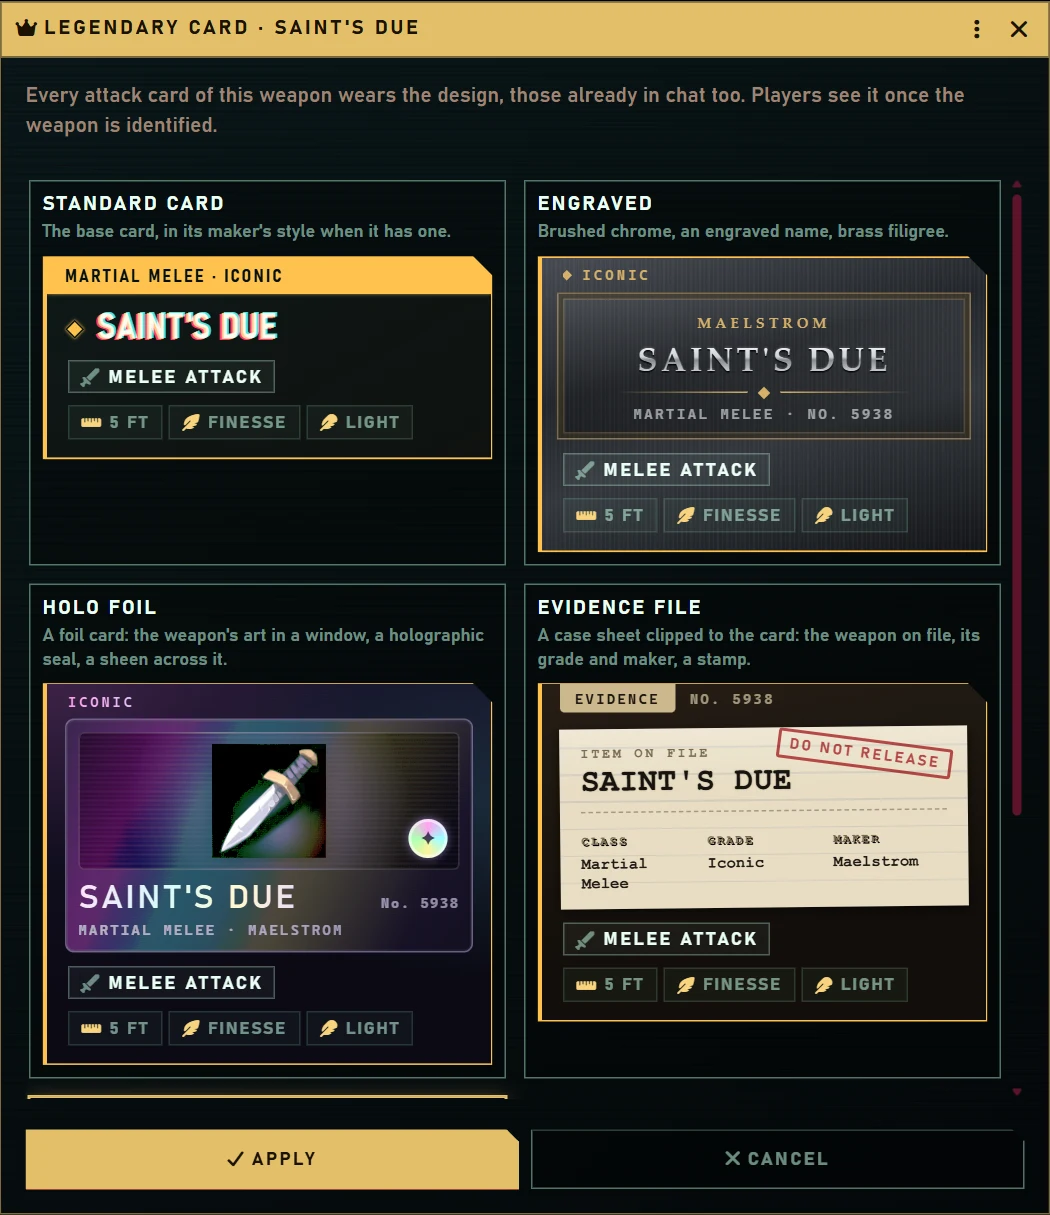
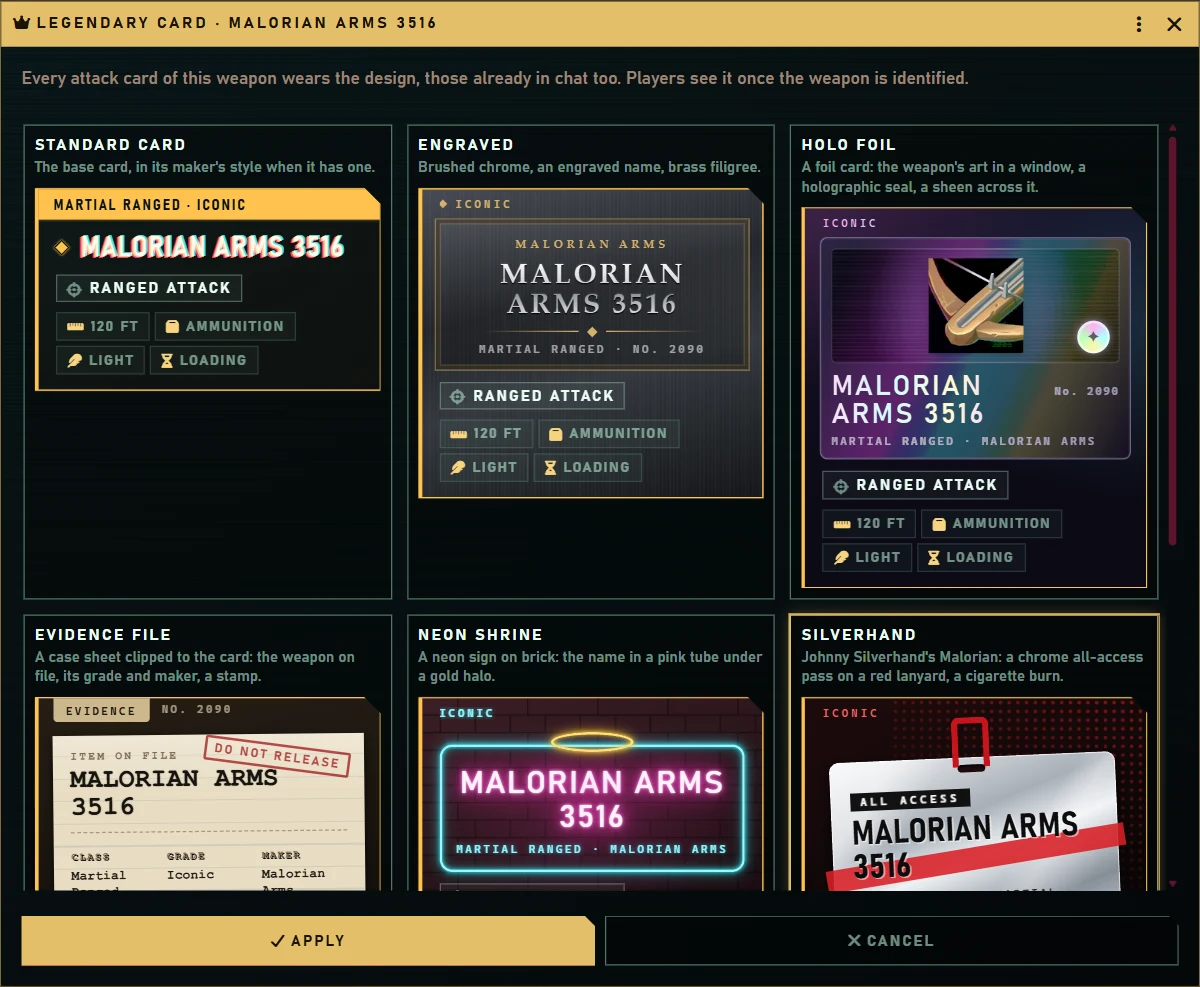
Legendary cards: designs for known weapons
Four more designs, each made for a known weapon and usable on any weapon the GM
gives it to:

- Silverhand (Johnny Silverhand's Malorian Arms 3516): a chrome all-access pass
  on a red lanyard, a red slash, a cigarette burn.
- La Dorada (Jackie Welles' La Chingona Dorada): gold leaf with the name in
  script, marigolds, papel picado overhead.
- Satori (Saburo Arasaka's katana): ink on washi, a brushed circle, a red seal.
- Skippy (the talking smart pistol): a pixel face on the smart-link screen with
  a line for each outcome.

The GM's window lays the nine choices out in three columns. Docs gain a second
gallery and the updated window.

diff --git a/styles/legendary.css b/styles/legendary.css
@@ -5,7 +5,7 @@
  * Titles carry no data-text, so the base card's chromatic split stays off them.
  * ------------------------------------------------------------------------------------------- */
 .hwl-head { padding-bottom: 12px; }
-.hwl-head :is(.hardwipe-attack-kind-row, .hardwipe-props, .hardwipe-verdict, .hardwipe-targets, .hardwipe-desc, .hardwipe-chat-meta) { position: relative; z-index: 1; }
+.hwl-head > * { position: relative; z-index: 1; }
 .hwl-head .hwl-title { position: relative; margin: 0; font-size: 24px; line-height: 1.05; overflow-wrap: anywhere; }
 .chat-message.hardwipe-legendary .hardwipe-roll-card { border-left-color: var(--l-rail) !important; }
 .chat-message.is-folded .hwl-fold { display: none !important; }
@@ -149,13 +149,113 @@
 .hwl-neon .hwl-head.is-miss .hwl-halo { box-shadow: none; opacity: 0.4; }
 @keyframes hwl-tube { 0%, 100% { opacity: 1; } 3% { opacity: 0.5; } 4% { opacity: 1; } 61% { opacity: 0.7; } 62% { opacity: 1; } }
 
+/* SILVERHAND · Johnny Silverhand's Malorian: a chrome all-access pass on a red lanyard, a red slash, a burn. ------- */
+.chat-message.hwl-silverhand { --l-rail: #d81f26; }
+.hwl-silverhand .hwl-head { background: linear-gradient(160deg, #1d0b0c, #070505 70%); }
+.hwl-silverhand .hwl-head > .hwl-dots {
+  position: absolute; z-index: 0; right: 0; top: 0; width: 75%; height: 180px; pointer-events: none;
+  background: radial-gradient(circle, rgba(216, 31, 38, 0.55) 1.2px, transparent 1.8px) 0 0 / 7px 7px;
+  -webkit-mask: linear-gradient(205deg, #000, transparent 70%); mask: linear-gradient(205deg, #000, transparent 70%);
+}
+.hwl-silverhand .hwl-top { display: flex; align-items: center; gap: 8px; padding: 7px 14px 0; color: #ff5a60; font: 800 9px var(--hw-font-mono); letter-spacing: 0.26em; text-transform: uppercase; }
+.hwl-silverhand .hwl-tour { flex: 1; min-width: 0; overflow: hidden; text-overflow: ellipsis; white-space: nowrap; }
+.hwl-silverhand .hwl-pass {
+  margin: 30px 22px 4px; padding: 20px 16px 12px; color: #111; border-radius: 8px; transform: rotate(-2.5deg);
+  background: linear-gradient(125deg, rgba(255, 255, 255, 0.55) 0 16%, transparent 30% 62%, rgba(255, 255, 255, 0.35) 70%, transparent 85%),
+    linear-gradient(160deg, #f2f4f6, #a7afb7 38%, #eef1f4 55%, #858e97 80%, #c9cfd5);
+  box-shadow: 0 3px 10px rgba(0, 0, 0, 0.65), inset 0 0 0 1px rgba(255, 255, 255, 0.6);
+}
+.hwl-silverhand .hwl-strap { position: absolute; left: 50%; top: -32px; width: 30px; height: 40px; translate: -50% 0; border: 5px solid #c8141c; border-bottom: 0; border-radius: 6px 6px 0 0; }
+.hwl-silverhand .hwl-punch { position: absolute; left: 50%; top: 6px; width: 22px; height: 6px; translate: -50% 0; background: #1d0b0c; border-radius: 4px; box-shadow: inset 0 1px 2px #000; }
+.hwl-silverhand .hwl-slash { position: absolute; left: -6px; right: -6px; top: 52%; height: 18px; background: #d81f26; opacity: 0.88; transform: rotate(-7deg); }
+.hwl-silverhand .hwl-burn { position: absolute; right: 12px; bottom: 9px; width: 16px; height: 16px; border-radius: 50%; background: radial-gradient(circle, #120806 0 3px, #5a2a12 4px, rgba(120, 60, 20, 0.45) 6px, transparent 8px); }
+.hwl-silverhand .hwl-access { position: relative; display: inline-block; margin-bottom: 6px; padding: 2px 8px; color: #fff; background: #111; font: 800 9px var(--hw-font-mono); letter-spacing: 0.3em; text-transform: uppercase; }
+.hwl-silverhand .hwl-head .hwl-title { z-index: 1; color: #0d0d0d; font: 900 27px/1 var(--hw-font-disp); font-stretch: 78%; letter-spacing: 0.01em; text-transform: uppercase; text-shadow: 1px 1px 0 rgba(255, 255, 255, 0.55); }
+.hwl-silverhand .hwl-sub { position: relative; z-index: 1; margin-top: 7px; color: #2a2d31; font: 700 9px var(--hw-font-mono); letter-spacing: 0.2em; text-transform: uppercase; }
+.hwl-silverhand .hwl-head.is-critical .hwl-slash { box-shadow: 0 0 12px rgba(255, 40, 50, 0.85); }
+.hwl-silverhand .hwl-head:is(.is-miss, .is-mixed) .hwl-pass { filter: grayscale(0.8) brightness(0.72); }
+
+/* LA DORADA · Jackie Welles' golden pistols: gold leaf with engraved script, marigolds, papel picado above. ----- */
+.chat-message.hwl-dorada { --l-rail: #e3b341; }
+.hwl-dorada .hwl-head { background: radial-gradient(90% 60% at 50% 30%, rgba(227, 179, 65, 0.18), transparent 70%), linear-gradient(165deg, #2a1608, #120904 70%); }
+.hwl-dorada .hwl-top { display: flex; align-items: center; gap: 8px; padding: 7px 14px 4px; color: #f2cf73; font: 700 9px var(--hw-font-mono); letter-spacing: 0.24em; text-transform: uppercase; }
+.hwl-dorada .hwl-rarity { flex: 1; min-width: 0; overflow: hidden; text-overflow: ellipsis; white-space: nowrap; }
+.hwl-dorada .hwl-picado { display: flex; gap: 3px; height: 22px; margin: 0 12px; padding-top: 2px; border-top: 1px solid rgba(242, 207, 115, 0.6); }
+.hwl-dorada .hwl-picado i {
+  flex: 1; background: var(--c); opacity: 0.92;
+  clip-path: polygon(0 0, 100% 0, 100% 78%, 87.5% 100%, 75% 78%, 62.5% 100%, 50% 78%, 37.5% 100%, 25% 78%, 12.5% 100%, 0 78%);
+  -webkit-mask: radial-gradient(circle at 50% 40%, transparent 0 2.6px, #000 3px), radial-gradient(circle at 22% 24%, transparent 0 1.3px, #000 1.7px), radial-gradient(circle at 78% 24%, transparent 0 1.3px, #000 1.7px);
+  -webkit-mask-composite: source-in;
+  mask: radial-gradient(circle at 50% 40%, transparent 0 2.6px, #000 3px), radial-gradient(circle at 22% 24%, transparent 0 1.3px, #000 1.7px), radial-gradient(circle at 78% 24%, transparent 0 1.3px, #000 1.7px);
+  mask-composite: intersect;
+}
+.hwl-dorada .hwl-gold {
+  margin: 8px 12px 0; padding: 14px 40px 11px; text-align: center; color: #3b2405; border-radius: 3px;
+  background: radial-gradient(120% 140% at 30% 0%, rgba(255, 250, 220, 0.7), transparent 45%), linear-gradient(160deg, #fbe7a1, #d4a537 32%, #f7d774 50%, #a8761d 76%, #e9c25a);
+  box-shadow: inset 0 0 0 1px rgba(255, 245, 200, 0.7), inset 0 0 0 4px rgba(120, 80, 15, 0.35), 0 2px 8px rgba(0, 0, 0, 0.55);
+}
+.hwl-dorada .hwl-flower { position: absolute; top: 50%; width: 26px; height: 26px; translate: 0 -50%; }
+.hwl-dorada .hwl-flower.is-l { left: 9px; }
+.hwl-dorada .hwl-flower.is-r { right: 9px; }
+.hwl-dorada .hwl-flower svg { display: block; width: 100%; height: 100%; filter: drop-shadow(0 1px 0 rgba(90, 50, 5, 0.6)); }
+.hwl-dorada .hwl-head .hwl-title { color: #3b2405; font: italic 700 25px/1.05 "Palatino Linotype", "Book Antiqua", Georgia, serif; letter-spacing: 0.02em; text-transform: none; text-shadow: 0 1px 0 rgba(255, 244, 200, 0.7), 0 -1px 0 rgba(90, 55, 8, 0.5); }
+.hwl-dorada .hwl-sub { margin-top: 5px; color: rgba(59, 36, 5, 0.8); font: 700 9px var(--hw-font-mono); letter-spacing: 0.2em; text-transform: uppercase; }
+.hwl-dorada .hwl-head.is-critical .hwl-gold { box-shadow: inset 0 0 0 1px rgba(255, 245, 200, 0.7), inset 0 0 0 4px rgba(120, 80, 15, 0.35), 0 0 16px rgba(255, 214, 102, 0.6); }
+.hwl-dorada .hwl-head:is(.is-miss, .is-mixed) .hwl-gold { filter: grayscale(0.6) brightness(0.75); }
+
+/* SATORI · Saburo Arasaka's katana: ink on washi, a brushed circle, a red seal. ------------------------------------ */
+.chat-message.hwl-satori { --l-rail: #b8141c; }
+.hwl-satori .hwl-head { background: linear-gradient(165deg, #1a1515, #0b0909 70%); }
+.hwl-satori .hwl-top { display: flex; align-items: center; gap: 8px; padding: 7px 14px 6px; color: #e6dccb; font: 700 9px var(--hw-font-mono); letter-spacing: 0.26em; text-transform: uppercase; }
+.hwl-satori .hwl-rarity { flex: 1; min-width: 0; overflow: hidden; text-overflow: ellipsis; white-space: nowrap; }
+.hwl-satori .hwl-washi {
+  margin: 0 12px; padding: 18px 84px 14px 16px; color: #141210; overflow: hidden;
+  background: repeating-linear-gradient(97deg, rgba(120, 100, 70, 0.07) 0 1px, transparent 1px 7px), repeating-linear-gradient(8deg, rgba(120, 100, 70, 0.05) 0 1px, transparent 1px 11px), linear-gradient(180deg, #f3ecdd, #e4d9c2);
+  box-shadow: 0 2px 8px rgba(0, 0, 0, 0.6);
+}
+.hwl-satori .hwl-enso { position: absolute; right: 6px; top: 50%; width: 76px; height: 76px; translate: 0 -50%; color: rgba(20, 18, 16, 0.8); }
+.hwl-satori .hwl-enso svg { display: block; width: 100%; height: 100%; }
+.hwl-satori .hwl-hanko { position: absolute; z-index: 1; right: 30px; top: 50%; display: grid; place-items: center; width: 28px; height: 28px; translate: 0 -50%; color: #fff6ee; background: #b8141c; border-radius: 3px; font: 700 17px/1 "Yu Mincho", "MS Mincho", serif; transform: rotate(-4deg); box-shadow: inset 0 0 0 2px rgba(255, 240, 230, 0.35); }
+.hwl-satori .hwl-head .hwl-title { color: #141210; font: 600 24px/1.1 "Yu Mincho", "MS Mincho", "Palatino Linotype", Georgia, serif; letter-spacing: 0.14em; text-transform: uppercase; text-shadow: none; }
+.hwl-satori .hwl-sub { margin-top: 6px; color: rgba(20, 18, 16, 0.62); font: 600 9px var(--hw-font-mono); letter-spacing: 0.2em; text-transform: uppercase; }
+.hwl-satori .hwl-head.is-critical .hwl-hanko { box-shadow: inset 0 0 0 2px rgba(255, 240, 230, 0.35), 0 0 10px rgba(255, 40, 40, 0.7); }
+.hwl-satori .hwl-head:is(.is-miss, .is-mixed) .hwl-washi { filter: sepia(0.25) brightness(0.72); }
+
+/* SKIPPY · the talking smart pistol: a pixel face on the smart-link screen, with a word on every shot. ------------- */
+.chat-message.hwl-skippy { --l-rail: #6dff9a; }
+.hwl-skippy .hwl-head { background: linear-gradient(165deg, #10161a, #070a0c 70%); }
+.hwl-skippy .hwl-top { display: flex; align-items: center; gap: 8px; padding: 7px 14px 6px; color: #8dffb0; font: 700 9px var(--hw-font-mono); letter-spacing: 0.24em; text-transform: uppercase; }
+.hwl-skippy .hwl-rarity { flex: 1; min-width: 0; overflow: hidden; text-overflow: ellipsis; white-space: nowrap; }
+.hwl-skippy .hwl-screen {
+  margin: 0 12px; padding: 10px 12px; color: #8dffb0; border-radius: 6px;
+  background: repeating-linear-gradient(0deg, rgba(0, 0, 0, 0.25) 0 1px, transparent 1px 3px), radial-gradient(120% 100% at 30% 20%, #0f3a22, #04150c 75%);
+  box-shadow: inset 0 0 0 2px #1f2a2e, inset 0 0 18px rgba(0, 0, 0, 0.7), 0 0 0 1px #000;
+}
+.hwl-skippy .hwl-chat { display: flex; align-items: center; gap: 12px; margin-bottom: 9px; }
+.hwl-skippy .hwl-face { --f: #8dffb0; position: relative; flex: none; width: 44px; height: 34px; border: 2px solid var(--f); border-radius: 8px; box-shadow: 0 0 6px color-mix(in srgb, var(--f) 60%, transparent); }
+.hwl-skippy .hwl-face i { position: absolute; top: 9px; width: 6px; height: 6px; background: var(--f); box-shadow: 0 0 4px var(--f); animation: hwl-blink 5s steps(1) infinite; }
+.hwl-skippy .hwl-face i:first-child { left: 10px; }
+.hwl-skippy .hwl-face i:nth-child(2) { right: 10px; }
+.hwl-skippy .hwl-face b { position: absolute; left: 50%; bottom: 6px; width: 16px; height: 6px; translate: -50% 0; border: 2px solid var(--f); border-top: 0; border-radius: 0 0 9px 9px; }
+.hwl-skippy .hwl-head:is(.is-attack, .is-pending) .hwl-face b { bottom: 8px; width: 8px; height: 2px; border: 0; border-radius: 0; background: var(--f); }
+.hwl-skippy .hwl-head.is-critical .hwl-face b { width: 20px; height: 9px; background: var(--f); }
+.hwl-skippy .hwl-head:is(.is-miss, .is-mixed) .hwl-face b { bottom: 8px; width: 14px; height: 2px; border: 0; border-radius: 0; background: var(--f); transform: rotate(-12deg); }
+.hwl-skippy .hwl-head.is-fumble .hwl-face { --f: #ff6b7a; }
+.hwl-skippy .hwl-head.is-fumble .hwl-face b { bottom: 6px; border: 2px solid var(--f); border-bottom: 0; border-radius: 9px 9px 0 0; }
+.hwl-skippy .hwl-bubble { position: relative; flex: 1; min-width: 0; padding: 6px 9px; color: #04150c; background: #8dffb0; border-radius: 8px; font: 700 11px/1.25 var(--hw-font-mono); box-shadow: 0 0 8px rgba(109, 255, 154, 0.45); }
+.hwl-skippy .hwl-bubble::before { content: ""; position: absolute; left: -6px; top: 50%; translate: 0 -50%; border: 6px solid transparent; border-right-color: #8dffb0; border-left: 0; }
+.hwl-skippy .hwl-head .hwl-title { color: #b9ffcf; font: 700 22px/1.05 var(--hw-font-mono); letter-spacing: 0.04em; text-transform: uppercase; text-shadow: 0 0 6px rgba(109, 255, 154, 0.8); }
+.hwl-skippy .hwl-sub { margin-top: 4px; color: rgba(141, 255, 176, 0.65); font: 600 9px var(--hw-font-mono); letter-spacing: 0.2em; text-transform: uppercase; }
+.hwl-skippy .hwl-head.is-miss .hwl-title { opacity: 0.6; }
+@keyframes hwl-blink { 0%, 100% { transform: scaleY(1); } 94% { transform: scaleY(0.15); } }
+
 @media (prefers-reduced-motion: reduce) {
-  .hwl-holo .hwl-foil, .hwl-neon .hwl-head .hwl-title { animation: none; }
+  .hwl-holo .hwl-foil, .hwl-neon .hwl-head .hwl-title, .hwl-skippy .hwl-face i { animation: none; }
 }
 
 /* The GM's design picker: the weapon's head in every design. */
 .application.dialog.hardwipe-dialog.is-legend { --hwd: #e2bf68; --hwd-ink: #1a1203; }
-.hwl-choices { display: grid; grid-template-columns: repeat(2, minmax(0, 1fr)); gap: 12px; max-height: 68vh; margin: 0 0 4px; padding: 2px 6px 2px 2px; overflow-y: auto; }
+.hwl-choices { display: grid; grid-template-columns: repeat(3, minmax(0, 1fr)); gap: 12px; max-height: 68vh; margin: 0 0 4px; padding: 2px 6px 2px 2px; overflow-y: auto; }
 .hwl-choice { position: relative; display: flex; flex-direction: column; gap: 8px; padding: 8px; background: rgba(0, 0, 0, 0.3); border: 1px solid var(--hw-line-2, rgba(143, 207, 176, 0.25)); cursor: pointer; }
 .hwl-choice:hover { border-color: color-mix(in srgb, var(--hwd) 60%, transparent); }
 .hwl-choice:has(input:checked) { border-color: var(--hwd); box-shadow: 0 0 0 1px var(--hwd), 0 0 12px color-mix(in srgb, var(--hwd) 30%, transparent); }

diff --git a/scripts/hardwipe-legendary.js b/scripts/hardwipe-legendary.js
@@ -69,6 +69,15 @@ const FILIGREE = '<svg viewBox="0 0 40 40" fill="none" stroke="currentColor" str
   + '<path d="M2 15c6.4 2.4 11.4-1 11.4-6.6 0-1.4-.3-2.6-.8-3.6"/><circle cx="7.4" cy="7.4" r="1.7" fill="currentColor" stroke="none"/></svg>';
 const CLIP = '<svg viewBox="0 0 14 38" fill="none" stroke-width="1.8" stroke-linecap="round">'
   + '<path d="M4.5 12V6a3.2 3.2 0 0 1 6.4 0v23a5.4 5.4 0 0 1-10.8 0V10" stroke="#aeb7bf"/></svg>';
+const MARIGOLD = '<svg viewBox="0 0 24 24" fill="#ff9f1c">'
+  + Array.from({ length: 10 }, (_, i) => `<ellipse cx="12" cy="5.6" rx="2.6" ry="5" transform="rotate(${i * 36} 12 12)"/>`).join("")
+  + '<circle cx="12" cy="12" r="3.6" fill="#9a4207"/></svg>';
+const PICADO = ["#ff4f9a", "#ff9f1c", "#2ec4b6", "#9b5de5", "#fee440", "#00bbf9", "#f15bb5", "#7bd389"];
+const ENSO = '<svg viewBox="0 0 100 100" fill="none" stroke="currentColor" stroke-linecap="round">'
+  + '<path d="M70 14C50 4 18 14 12 44S34 94 60 88s34-30 26-52" stroke-width="8" opacity="0.85"/>'
+  + '<path d="M66 17C46 10 22 19 16 44s20 46 44 40" stroke-width="2.5" opacity="0.5"/></svg>';
+// Skippy has a word for every outcome; anything else gets its ready line.
+const SKIPPY_TONES = new Set(["attack", "pending", "hit", "critical", "miss", "mixed", "fumble"]);
 
 const title = p => `<div class="hardwipe-chat-title hwl-title">${p.name}</div>`;
 const top = (p, label) => `${label}<span class="hardwipe-attack-status">${p.status}</span>${p.control}`;
@@ -101,6 +110,28 @@ const DESIGNS = {
     ${tail(p)}`,
   neon: p => `<div class="hwl-top">${top(p, `<span class="hwl-tag">${p.rarity}</span>`)}</div>
     <div class="hwl-sign"><i class="hwl-halo hwl-fold"></i>${title(p)}<div class="hwl-sub">${joined(p.type, p.maker)}</div></div>
+    ${tail(p)}`,
+  // Known weapons' own cards. Johnny Silverhand's Malorian Arms 3516: an all-access pass on a lanyard.
+  silverhand: p => `<i class="hwl-dots"></i><div class="hwl-top">${top(p, `<span class="hwl-tour">${p.rarity}</span>`)}</div>
+    <div class="hwl-pass"><i class="hwl-strap hwl-fold"></i><i class="hwl-punch"></i><i class="hwl-slash"></i><i class="hwl-burn hwl-fold"></i>
+      <div class="hwl-access">${escapeHTML(t("AllAccess"))}</div>${title(p)}<div class="hwl-sub">${joined(p.maker, p.type)}</div></div>
+    ${tail(p)}`,
+  // Jackie Welles' golden pistols: gold leaf and marigolds under papel picado.
+  dorada: p => `<div class="hwl-top">${top(p, `<span class="hwl-rarity">${p.rarity}</span>`)}</div>
+    <div class="hwl-picado hwl-fold">${PICADO.map(color => `<i style="--c:${color}"></i>`).join("")}</div>
+    <div class="hwl-gold"><i class="hwl-flower is-l">${MARIGOLD}</i><i class="hwl-flower is-r">${MARIGOLD}</i>
+      ${title(p)}<div class="hwl-sub">${joined(p.type, p.maker)}</div></div>
+    ${tail(p)}`,
+  // Saburo Arasaka's katana: ink on washi, a brushed circle, a seal.
+  satori: p => `<div class="hwl-top">${top(p, `<span class="hwl-rarity">${p.rarity}</span>`)}</div>
+    <div class="hwl-washi"><i class="hwl-enso hwl-fold">${ENSO}</i><span class="hwl-hanko">悟</span>
+      ${title(p)}<div class="hwl-sub">${joined(p.maker, p.type)}</div></div>
+    ${tail(p)}`,
+  // Skippy, the talking smart pistol: a pixel face on the smart-link screen, with a word on the shot.
+  skippy: p => `<div class="hwl-top">${top(p, `<span class="hwl-rarity">${p.rarity}</span>`)}</div>
+    <div class="hwl-screen"><div class="hwl-chat"><span class="hwl-face"><i></i><i></i><b></b></span>
+      <span class="hwl-bubble">${escapeHTML(t(`Skippy.${SKIPPY_TONES.has(p.tone) ? p.tone : "attack"}`))}</span></div>
+      ${title(p)}<div class="hwl-sub">${joined(p.type, p.maker)}</div></div>
     ${tail(p)}`
 };
 export const DESIGN_IDS = Object.keys(DESIGNS);
@@ -169,7 +200,7 @@ async function pickDesign(item, preview) {
   const picked = await foundry.applications.api.DialogV2.wait({
     window: { title: game.i18n.format("HARDWIPE.Legend.PickTitle", { name: item.name }), icon: "fas fa-crown" },
     classes: ["hardwipe-dialog", "is-legend"],
-    position: { width: 700 },
+    position: { width: 960 },
     content,
     rejectClose: false,
     buttons: [

diff --git a/docs/Reference.md b/docs/Reference.md
@@ -68,7 +68,7 @@ Use the managers instead of writing flags directly so ownership, queue, service,
 | Live Interrupt *(next release)* | Actor `flags["hardwipe-ruleset"].edgeInterrupt`: `combat`, `round`, `turn`, `state` (`ready`, `used`), `messageId`; good only on the turn it was bought |
 | Applied damage log | Message `flags["hardwipe-ruleset"].applied`: entries with `targets` (`uuid`, `name`, `dv`, `dt` and `m`, the multiplier: a target that saved records ½ or 0 *(next release)*), `parts`, `kinds`, `label`, `by`, `undone` |
 | Typed chat *(next release)* | Plain `base` messages with no rolls and only `core` flags, plus Smartphone Widget texts (`flags["smartphone-widget"].isSmartphoneMessage`; its `phone-message-header` line becomes the tag). Hardwipe's other messages get `themed theme-dark` on their content |
-| Legendary card *(next release)* | Weapon `flags["hardwipe-ruleset"].cardIdentity`: `schema` 1, `mode` `preset` with `preset` a design (`engraved`, `holo`, `evidence`, `neon`), or `mode` `default` for the standard card. Shown on weapons at or above the world setting `hardwipe-ruleset.legendaryRarity` (a rarity key; empty is the top tier) |
+| Legendary card *(next release)* | Weapon `flags["hardwipe-ruleset"].cardIdentity`: `schema` 1, `mode` `preset` with `preset` a design (`engraved`, `holo`, `evidence`, `neon`, `silverhand`, `dorada`, `satori`, `skippy`), or `mode` `default` for the standard card. Shown on weapons at or above the world setting `hardwipe-ruleset.legendaryRarity` (a rarity key; empty is the top tier) |
 | Attacks per Attack action (override) | Feature or working implant `flags["hardwipe-ruleset"].attacksPerAction`; the highest of this and Extra Attack-style features wins |
 
 Ready Set Midi exposes `MidiQOL.hardwipeCoverBridgeVersion = 1` and the `midi-qol.computeCoverBonus`, `computeTargetAC`, `wallCoverRange`, `targetHitResolved`, and `coverAutoRollDamage` hooks. Canonical per-target resolution is persisted for GM verification. Use the Ready Set Midi companion attached to the same Hardwipe release (rebuilt by [`preview/merge-companion.py`](../preview/README.md)), which carries these hooks together with the area-spell changes; copying only a Hardwipe script is insufficient.

diff --git a/README.md b/README.md
@@ -129,7 +129,7 @@ When a player attacks, the GM sees the total, the target's AC (cover included) a
 - **Damage you can take back.** Damage applied by the workflow is logged on the card as **Auto**, with an **Undo** that restores the hit points. The damage row (×1, ½, ×2, Targets) logs its applications the same way.
 - **Rolls you can change.** Switch a pending attack to advantage, add a bonus, reroll a die or roll critical damage, and everything downstream follows. The GM gets a fresh review, a wall proposal still waiting for the GM is re-posted, and damage that was already applied is adjusted by the difference (*Auto · adjusted*). Undo still restores the original hit points. A natural 20 that only arrives with advantage counts as a critical.
 - **Who made it.** *(Next release.)* Set a weapon's **Manufacturer** and its card wears that maker: Arasaka, Militech, Kang Tao, Tsunami, Budget Arms, Malorian Arms, Constitutional Arms, Techtronika, Maelstrom, PALE or ????. [Every maker's card →](docs/Cards.md#weapon-makers)
-- **Legendary cards.** *(Next release.)* The GM gives a weapon of the top rarity tiers a design of its own from a crown on its card: Engraved, Holo foil, Evidence file or Neon shrine. Custom D&D's own rarities work. [The designs →](docs/Cards.md#legendary-cards)
+- **Legendary cards.** *(Next release.)* The GM gives a weapon of the top rarity tiers a design of its own from a crown on its card: Engraved, Holo foil, Evidence file, Neon shrine, or one made for a known weapon (Johnny Silverhand's Malorian, Jackie's La Chingona Dorada, Satori, Skippy). Custom D&D's own rarities work. [The designs →](docs/Cards.md#legendary-cards)
 - **CRIT on the damage line.** The roller can roll critical damage (the damage dice again) until the GM rules; the GM can at any time. The GM's review notes when the roller added crit dice.
 
 [Combat, damage and shields →](docs/Combat.md) · [Edge, Strikes and Downed →](docs/Players.md#edge-strikes-and-downed)

diff --git a/docs/Media.md b/docs/Media.md
@@ -325,11 +325,12 @@ Captured on **2026-10-21** in the disposable QA world, as the QA Player: one liv
 
 ## Legendary card capture
 
-Captured on **2026-10-26** in the disposable QA world with Custom D&D's rarities set to Gonk, Street, Nova, Preem and Iconic. The gallery is four live attacks by the QA Player's Iconic weapons on the QA Cover Target, ruled by the GM (hit, critical, miss, hit); their heads were cloned side by side as the player sees them, descriptions left out. The window is the GM's, opened from the crown on Saint's Due. Both captured at 2× (the window at 1.5×) and saved as WebP.
+Captured on **2026-10-26** in the disposable QA world with Custom D&D's rarities set to Gonk, Street, Nova, Preem and Iconic. Each gallery is four live attacks by the QA Player's Iconic weapons (SRD stand-ins renamed) on the QA Cover Target, ruled by the GM; their heads were cloned side by side as the player sees them, descriptions left out. The window is the GM's, opened from the crown on Malorian Arms 3516. The galleries are captured at 2×, the window at 1.25×, all saved as WebP.
 
 | Published file | Subject |
 | --- | --- |
-| [legendary-cards.webp](media/legendary-cards.webp) | Engraved, Holo foil, Evidence file and Neon shrine. |
+| [legendary-cards.webp](media/legendary-cards.webp) | Engraved, Holo foil, Evidence file and Neon shrine: hit, critical, miss, hit. |
+| [legendary-iconic.webp](media/legendary-iconic.webp) | Silverhand, La Dorada, Satori and Skippy: hit, critical, hit, miss. |
 | [legendary-picker.webp](media/legendary-picker.webp) | The GM's Legendary card window: the standard card and the designs drawn with the weapon's own parts. |
 
 The originals remain in the development audit. Documentation media contains no machine-specific file paths, campaign databases, QA result JSON, or recreated UI.

diff --git a/docs/Cards.md b/docs/Cards.md
@@ -46,6 +46,15 @@ Eleven makers have a style: **Arasaka**, **Militech**, **Kang Tao**, **Tsunami D
 - **Evidence file:** a typed case sheet clipped to the card, with the weapon's class, grade and maker, and a stamp.
 - **Neon shrine:** the name in a pink tube on brick, under a gold halo.
 
+<img src="media/legendary-iconic.webp" alt="Four known weapons' attack cards: Malorian Arms 3516 as a chrome all-access pass on a red lanyard, La Chingona Dorada on gold leaf with marigolds under papel picado, Satori in ink on washi with a brushed circle and a red seal, and Skippy as a smart-link screen whose pixel face says Missed. Not my fault." width="900">
+
+Four more are made for known weapons, and work on any weapon you give them to:
+
+- **Silverhand** (Johnny Silverhand's Malorian Arms 3516): a chrome all-access pass on a red lanyard, a red slash, a cigarette burn.
+- **La Dorada** (Jackie Welles' La Chingona Dorada): gold leaf with the name in script, marigolds, papel picado overhead.
+- **Satori** (Saburo Arasaka's katana): ink on washi, a brushed circle, a red seal.
+- **Skippy** (the talking smart pistol): a pixel face on the smart-link screen that has a word for each outcome.
+
 The outline, the verdict strip and the targets keep their hit, miss and critical colours, and a miss dims the design. A player sees an unidentified weapon's plain card, without its rarity.
 
 ## Spell programs
